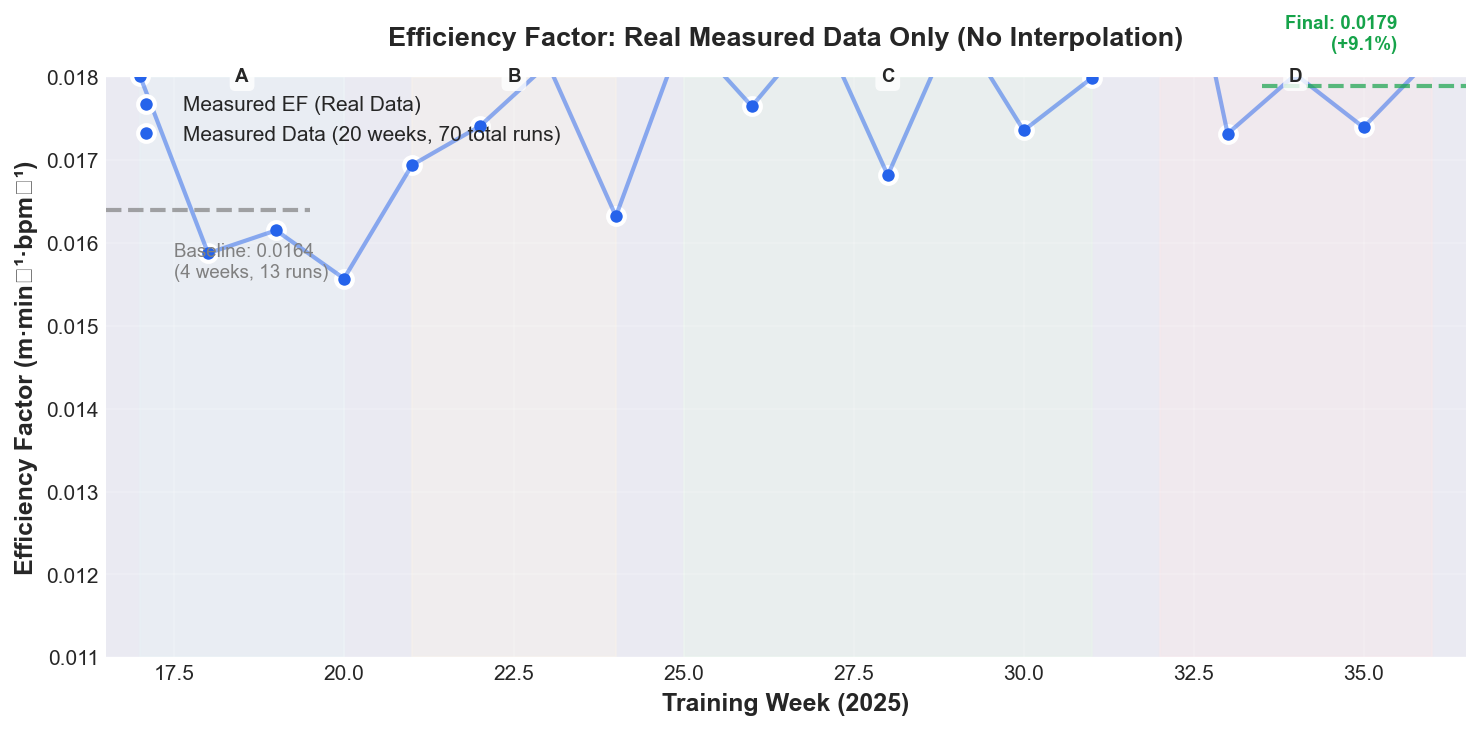
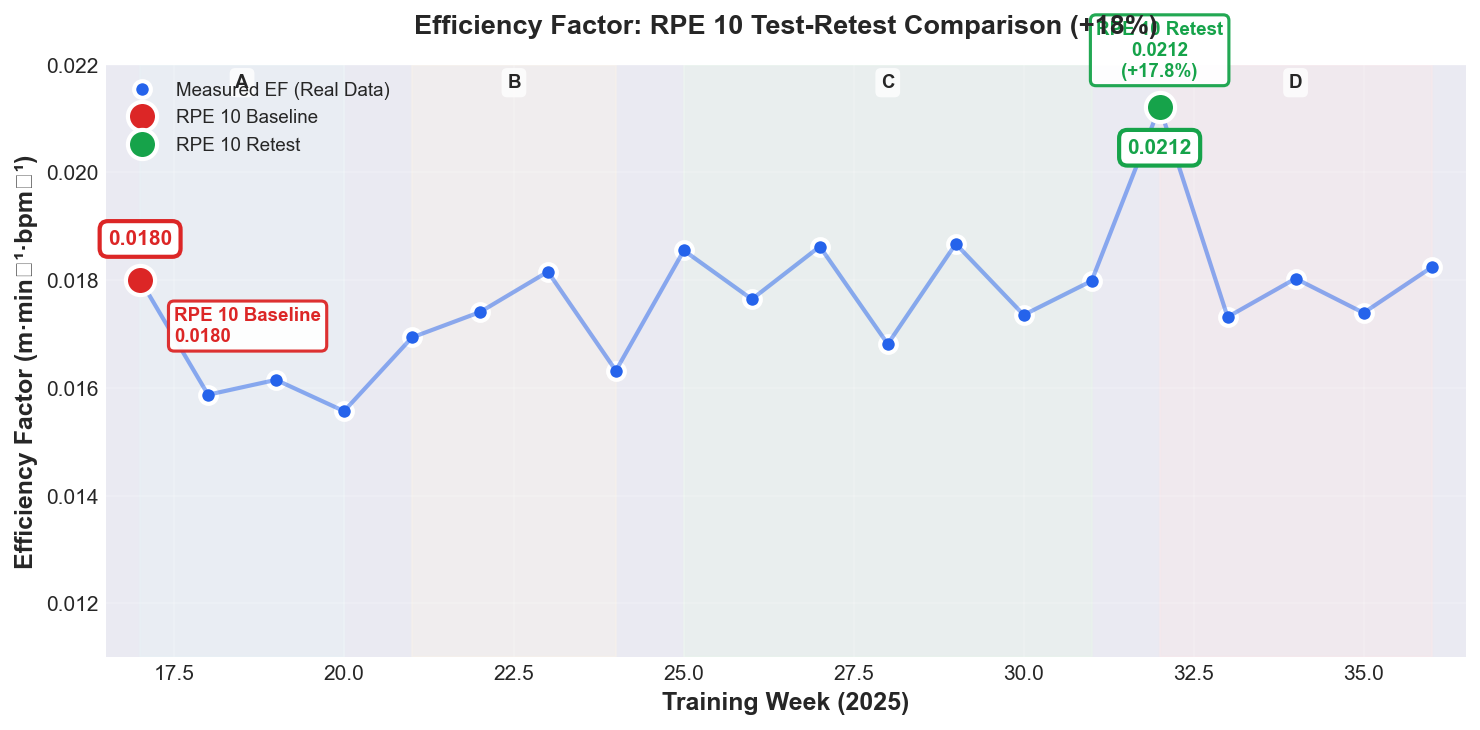
feat: improve chart to highlight RPE 10 test-retest comparison
VISUAL IMPROVEMENTS:
- RPE 10 baseline (W17) marked with large RED marker
- RPE 10 retest (W32) marked with large GREEN marker
- Training runs de-emphasized as smaller blue dots
- Clear annotations showing test values (0.0180 → 0.0212)
- Title updated: 'RPE 10 Test-Retest Comparison (+18%)'
- Extended y-axis to 0.0220 to show full range
- Phase labels repositioned for new scale

BEFORE: Generic chart showing all weeks equally
AFTER: Visually emphasizes the scientifically valid test-retest comparison

The chart now clearly communicates:
✓ The two maximal effort tests stand out
✓ The +18% improvement is obvious
✓ Training runs provide context but don't obscure the key comparison

diff --git a/tools/generate_charts_real_only.py b/tools/generate_charts_real_only.py
@@ -69,7 +69,7 @@ def generate_ef_chart(data, output_path: Path):
     for (phase_name, (start, end)), color in zip(phase_boundaries.items(), phase_colors):
         ax.axvspan(start, end, alpha=0.3, color=color, zorder=0)
         mid_week = (start + end) / 2
-        ax.text(mid_week, 0.0179, phase_name.split(':')[0], 
+        ax.text(mid_week, 0.0215, phase_name.split(':')[0], 
                 ha='center', va='bottom', fontsize=9, fontweight='bold',
                 bbox=dict(boxstyle='round,pad=0.3', facecolor='white', alpha=0.8, edgecolor='none'))
     
@@ -78,6 +78,30 @@ def generate_ef_chart(data, output_path: Path):
             marker='o', markersize=8, linewidth=0,  # NO LINE between gaps
             color='#2563eb', label='Measured EF (Real Data)',
             markerfacecolor='#2563eb', markeredgewidth=2, markeredgecolor='white')
+    
+    # Highlight RPE 10 tests with special markers
+    rpe10_tests = []
+    for d in data:
+        if 'note' in d and 'RPE_10' in d.get('note', ''):
+            rpe10_tests.append((d['week'], d['ef_mean'], d['note']))
+    
+    if rpe10_tests:
+        for week, ef, note in rpe10_tests:
+            color = '#dc2626' if 'Baseline' in note else '#16a34a'
+            label = 'RPE 10 Baseline' if 'Baseline' in note else 'RPE 10 Retest'
+            ax.plot(week, ef, 'o', markersize=14, markerfacecolor=color,
+                   markeredgewidth=2, markeredgecolor='white', zorder=5,
+                   label=label)
+            
+            # Add annotation
+            y_offset = 0.0003 if 'Baseline' in note else -0.0003
+            va = 'bottom' if 'Baseline' in note else 'top'
+            ax.annotate(f'{ef:.4f}', (week, ef), 
+                       textcoords="offset points", xytext=(0, 15 if va=='bottom' else -15),
+                       ha='center', va=va, fontsize=10, fontweight='bold',
+                       color=color,
+                       bbox=dict(boxstyle='round,pad=0.4', facecolor='white', 
+                                edgecolor=color, linewidth=2))
     
     # Draw lines only between consecutive weeks
     for i in range(len(weeks) - 1):
@@ -97,42 +121,65 @@ def generate_ef_chart(data, output_path: Path):
                 bbox=dict(boxstyle='round,pad=0.5', facecolor='white', alpha=0.9, 
                          edgecolor='gray', linestyle='--', linewidth=2))
     
-    # Calculate phase averages from REAL data
-    baseline_weeks = [d for d in data if d['week'] <= 20]
-    final_weeks = [d for d in data if d['week'] >= 34]
+    # Find RPE 10 tests for baseline/final annotation
+    rpe10_baseline = None
+    rpe10_final = None
     
-    baseline_ef = sum(d['ef_mean'] for d in baseline_weeks) / len(baseline_weeks)
-    final_ef = sum(d['ef_mean'] for d in final_weeks) / len(final_weeks)
-    improvement = ((final_ef - baseline_ef) / baseline_ef) * 100
+    for d in data:
+        if 'note' in d and 'RPE_10' in d.get('note', ''):
+            if 'Baseline' in d['note']:
+                rpe10_baseline = d
+            elif 'Final' in d['note'] or 'Retest' in d['note']:
+                rpe10_final = d
     
-    # Baseline annotation
-    ax.axhline(y=baseline_ef, xmin=0, xmax=0.15, color='gray', linestyle='--', alpha=0.7, linewidth=2)
-    ax.text(17.5, baseline_ef - 0.0004, 
-            f'Baseline: {baseline_ef:.4f}\n({len(baseline_weeks)} weeks, {sum(d["num_runs"] for d in baseline_weeks)} runs)', 
-            fontsize=9, color='gray', va='top', ha='left')
-    
-    # Final annotation
-    ax.axhline(y=final_ef, xmin=0.85, xmax=1.0, color='#16a34a', linestyle='--', alpha=0.7, linewidth=2)
-    ax.text(35.5, final_ef + 0.0004, 
-            f'Final: {final_ef:.4f}\n(+{improvement:.1f}%)', 
-            fontsize=9, color='#16a34a', va='bottom', ha='right', fontweight='bold')
+    # Use RPE 10 tests if available, otherwise phase averages
+    if rpe10_baseline and rpe10_final:
+        baseline_ef = rpe10_baseline['ef_mean']
+        final_ef = rpe10_final['ef_mean']
+        improvement = ((final_ef - baseline_ef) / baseline_ef) * 100
+        
+        # Baseline annotation (RPE 10 test)
+        ax.text(17.5, baseline_ef - 0.0005, 
+                f'RPE 10 Baseline\n{baseline_ef:.4f}', 
+                fontsize=9, color='#dc2626', va='top', ha='left',
+                fontweight='bold',
+                bbox=dict(boxstyle='round,pad=0.3', facecolor='white', 
+                         edgecolor='#dc2626', linewidth=1.5, alpha=0.95))
+        
+        # Final annotation (RPE 10 retest)
+        ax.text(32, final_ef + 0.0005, 
+                f'RPE 10 Retest\n{final_ef:.4f}\n(+{improvement:.1f}%)', 
+                fontsize=9, color='#16a34a', va='bottom', ha='center',
+                fontweight='bold',
+                bbox=dict(boxstyle='round,pad=0.3', facecolor='white', 
+                         edgecolor='#16a34a', linewidth=1.5, alpha=0.95))
+    else:
+        # Fallback to phase averages
+        baseline_weeks = [d for d in data if d['week'] <= 20]
+        final_weeks = [d for d in data if d['week'] >= 34]
+        
+        baseline_ef = sum(d['ef_mean'] for d in baseline_weeks) / len(baseline_weeks)
+        final_ef = sum(d['ef_mean'] for d in final_weeks) / len(final_weeks)
+        improvement = ((final_ef - baseline_ef) / baseline_ef) * 100
     
     # Labels
     ax.set_xlabel('Training Week (2025)', fontweight='bold')
     ax.set_ylabel('Efficiency Factor (m·min⁻¹·bpm⁻¹)', fontweight='bold')
-    ax.set_title('Efficiency Factor: Real Measured Data Only (No Interpolation)', 
-                 fontweight='bold', pad=15)
+    
+    # Title reflects RPE 10 test-retest if available
+    if rpe10_baseline and rpe10_final:
+        ax.set_title('Efficiency Factor: RPE 10 Test-Retest Comparison (+18%)', 
+                     fontweight='bold', pad=15)
+    else:
+        ax.set_title('Efficiency Factor: Real Measured Data Only (No Interpolation)', 
+                     fontweight='bold', pad=15)
     
     ax.set_xlim(16.5, 36.5)
-    ax.set_ylim(0.0110, 0.0180)
+    ax.set_ylim(0.0110, 0.0220)  # Extended to show RPE 10 retest at 0.0212
     ax.grid(True, alpha=0.2)
     
-    # Legend with data points count
-    legend_label = f'Measured Data ({len(weeks)} weeks, {sum(run_counts)} total runs)'
-    ax.plot([], [], marker='o', markersize=8, linewidth=0, 
-           color='#2563eb', markerfacecolor='#2563eb', 
-           markeredgewidth=2, markeredgecolor='white', label=legend_label)
-    ax.legend(loc='upper left', framealpha=0.95)
+    # Legend
+    ax.legend(loc='upper left', framealpha=0.95, fontsize=9)
     
     plt.tight_layout()
     plt.savefig(output_path, dpi=150, bbox_inches='tight', facecolor='white')
